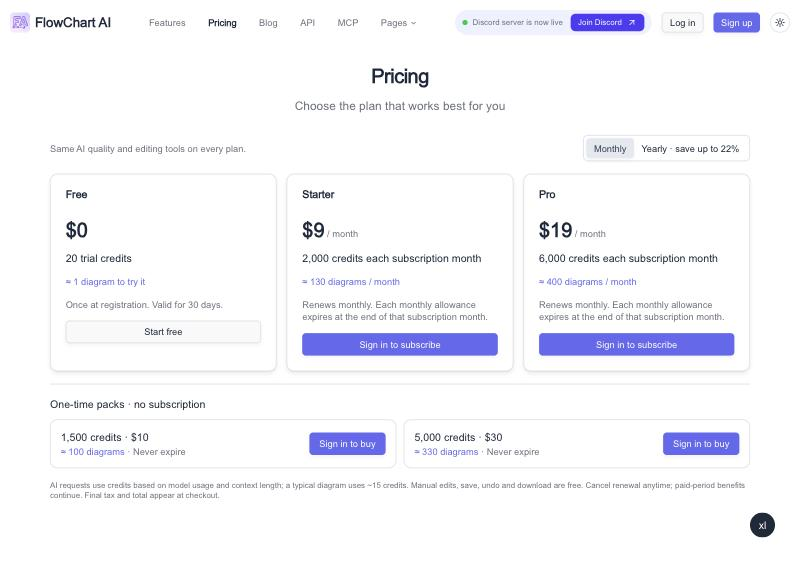
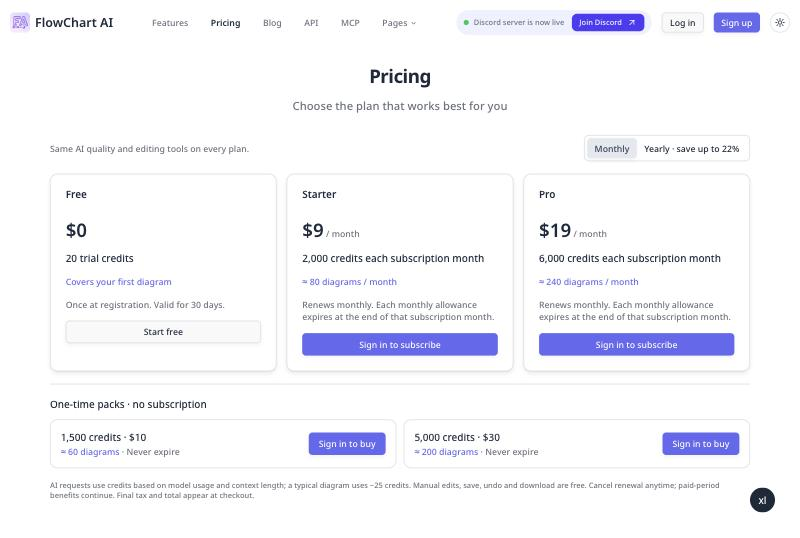
fix(paywall): calibrate diagram estimate to 25 credits from real runs
Lab runs on the production model at current rates cost 9 (simple), 23
(complex) and 23-35 (complex edits) credits; the median billed run is 23,
rounded up to 25 so the estimate errs low. $10 now reads ~60 diagrams.
The Free card says it covers the first diagram, which first-diagram
protection guarantees, instead of a per-credit estimate.

diff --git a/src/lib/billing/presentation.test.ts b/src/lib/billing/presentation.test.ts
@@ -34,13 +34,14 @@ describe('paywall default selection', () => {
 
 describe('diagram estimate', () => {
   it('uses one conservative constant and rounds down', () => {
-    expect(CREDITS_PER_TYPICAL_DIAGRAM).toBe(15);
-    expect(estimateDiagrams(1500)).toBe(100);
-    expect(estimateDiagrams(2000)).toBe(130); // 133 → 130
-    expect(estimateDiagrams(5000)).toBe(330); // 333 → 330
-    expect(estimateDiagrams(6000)).toBe(400);
-    expect(estimateDiagrams(29)).toBe(1);
-    expect(estimateDiagrams(14)).toBe(0);
+    expect(CREDITS_PER_TYPICAL_DIAGRAM).toBe(25);
+    expect(estimateDiagrams(1500)).toBe(60);
+    expect(estimateDiagrams(2000)).toBe(80);
+    expect(estimateDiagrams(5000)).toBe(200);
+    expect(estimateDiagrams(6000)).toBe(240);
+    expect(estimateDiagrams(2690)).toBe(100); // 107 → 100
+    expect(estimateDiagrams(49)).toBe(1);
+    expect(estimateDiagrams(24)).toBe(0);
     expect(estimateDiagrams(-5)).toBe(0);
   });
 
@@ -51,24 +52,24 @@ describe('diagram estimate', () => {
       );
   });
 
-  it('labels card estimates, singular for the free trial', () => {
-    expect(approxDiagrams(20)).toBe('≈ 1 diagram');
-    expect(approxDiagrams(1500)).toBe('≈ 100 diagrams');
-    expect(approxDiagrams(6000)).toBe('≈ 400 diagrams');
+  it('labels card estimates, singular for one', () => {
+    expect(approxDiagrams(25)).toBe('≈ 1 diagram');
+    expect(approxDiagrams(1500)).toBe('≈ 60 diagrams');
+    expect(approxDiagrams(6000)).toBe('≈ 240 diagrams');
   });
 
   it('puts diagrams first and the exact charge in the CTA', () => {
     expect(checkoutCta('pack_small')).toBe(
-      'Get ~100 diagrams & continue — $10 once'
+      'Get ~60 diagrams & continue — $10 once'
     );
     expect(checkoutCta('pack_large')).toBe(
-      'Get ~330 diagrams & continue — $30 once'
+      'Get ~200 diagrams & continue — $30 once'
     );
     expect(checkoutCta('starter_month')).toBe(
-      'Get ~130 diagrams/month & continue — $9/month'
+      'Get ~80 diagrams/month & continue — $9/month'
     );
     expect(checkoutCta('pro_year_202610')).toBe(
-      'Get ~400 diagrams/month & continue — $180/year'
+      'Get ~240 diagrams/month & continue — $180/year'
     );
   });
 });

diff --git a/src/lib/billing/presentation.ts b/src/lib/billing/presentation.ts
@@ -10,11 +10,14 @@ export const DEFAULT_CREDIT_VIEW: CreditView = 'once';
 export const DEFAULT_CREDIT_OFFER: OfferKey = 'pack_small';
 /**
  * Credits a typical AI diagram request uses, for the "≈ N diagrams" estimate.
- * Placeholder from observed requests (simple ≈ 9, complex ≈ 23). Calibrate it
- * against the production median credits per AI request before trusting N.
+ * Calibrated from real runs on the production model (DeepSeek V4 Pro) at the
+ * current rates (docs/billing/research/billing-v1-2026-10-14/usage-results.json):
+ * simple 9, complex 23, complex edits 23–35; median of billed runs 23, rounded
+ * up to 25 so the estimate errs low. Recheck against production
+ * (docs/paywall/phase1-2026-11/calibration-query.sql) when rates or model change.
  */
-export const CREDITS_PER_TYPICAL_DIAGRAM = 15;
-/** Rounded down, so the promise stays conservative (1,500 credits → 100). */
+export const CREDITS_PER_TYPICAL_DIAGRAM = 25;
+/** Rounded down, so the promise stays conservative (1,500 credits → 60). */
 export function estimateDiagrams(credits: number): number {
   const diagrams = Math.floor(
     Math.max(0, credits) / CREDITS_PER_TYPICAL_DIAGRAM

diff --git a/src/components/pricing/credit-pricing.tsx b/src/components/pricing/credit-pricing.tsx
@@ -106,8 +106,10 @@ export function CreditPricing({
               <p className="font-medium">
                 {SIGNUP_TRIAL_CREDITS} trial credits
               </p>
+              {/* The first diagram's charge is capped at the trial amount
+                  (first-diagram protection), so this is a policy, not an estimate. */}
               <p className="text-sm font-medium text-primary">
-                {approxDiagrams(SIGNUP_TRIAL_CREDITS)} to try it
+                Covers your first diagram
               </p>
               <p className="text-sm text-muted-foreground">
                 Once at registration. Valid for 30 days.

diff --git a/docs/paywall/phase1-2026-11/README.md b/docs/paywall/phase1-2026-11/README.md
@@ -11,7 +11,7 @@ From Oct 16 to Nov 6 2026, 342 users saw the paywall and 7 handed off to checkou
 | Area | Before | After |
 | --- | --- | --- |
 | Default | Monthly tab, Starter $9/mo | One-time tab, Small pack $10 (1,500 credits). Tabs: One-time, Monthly, Yearly |
-| Value | Credits only | "≈ N diagrams" on each card; CTA "Get ~100 diagrams & continue — $10 once" |
+| Value | Credits only | "≈ N diagrams" on each card; CTA "Get ~60 diagrams & continue — $10 once" |
 | Header (blocked request) | "Keep creating with AI" | "Add credits to continue" + why (balance 0: "You've used all your credits"; balance > 0: "This request needs more than your N remaining credits") + prompt/diagram kept, manual editing and downloads stay free |
 | Header (manual open) | Generic | Unchanged |
 | Popup blocked (mobile in-app browsers) | Small muted "Waiting for payment confirmation. Open secure checkout" link; CTA unchanged | "Checkout didn't open automatically." + full-width "Open secure checkout" button. Changing the offer clears the stale link |
@@ -20,11 +20,22 @@ From Oct 16 to Nov 6 2026, 342 users saw the paywall and 7 handed off to checkou
 
 ### /pricing (option B, owner choice 2026-11-07)
 
-/pricing had 102 visitors from Oct 16 to Nov 7, against 344 paywall viewers. They were 28% US and 91% desktop, mostly coming from the homepage before trying the app. So the page keeps subscriptions first. It now adds "≈ N diagrams" to every card (Free ≈ 1, Starter ≈ 130/mo, Pro ≈ 400/mo, packs ≈ 100 / 330) and renames "Extra credits" to "One-time packs · no subscription" with solid buttons. It also gets the same blocked-popup button as the paywall, scrolled into view. The same cards appear on the settings billing page.
+/pricing had 102 visitors from Oct 16 to Nov 7, against 344 paywall viewers. They were 28% US and 91% desktop, mostly coming from the homepage before trying the app. So the page keeps subscriptions first. It now adds "≈ N diagrams" to every card (Free covers the first diagram, Starter ≈ 80/mo, Pro ≈ 240/mo, packs ≈ 60 / 200) and renames "Extra credits" to "One-time packs · no subscription" with solid buttons. It also gets the same blocked-popup button as the paywall, scrolled into view. The same cards appear on the settings billing page.
 
-### Diagram estimate needs calibrating
+### Diagram estimate (calibrated 2026-11-07)
 
-N = credits / `CREDITS_PER_TYPICAL_DIAGRAM` (15, in `src/lib/billing/presentation.ts`), rounded down. 15 sits between the observed simple (≈ 9) and complex (≈ 23) requests. It was not derived from production data, because reading the production DB needs the owner's approval. Replace it with the real median credits per AI request. The owner chose to publish the /pricing estimates only after calibration. The production read was blocked in the agent session; `calibration-query.sql` is the read-only query to run in the Supabase SQL editor.
+N = credits / `CREDITS_PER_TYPICAL_DIAGRAM`, rounded down (tens above 100). It lives in one place, `src/lib/billing/presentation.ts`.
+
+| Real runs on the production model (DeepSeek V4 Pro), current rates | Credits |
+| --- | --- |
+| Simple diagram | 9 |
+| Complex diagram | 23 |
+| Complex edits | 23, 26, 35 |
+| Median of billed runs → constant | 23 → **25** (rounded up so the estimate errs low) |
+
+Source: `docs/billing/research/billing-v1-2026-10-14/usage-results.json`, priced with `RATES` in `policy.ts`. Result: $10 ≈ 60, $30 ≈ 200, Starter ≈ 80/mo, Pro ≈ 240/mo. The Free card says "Covers your first diagram" because first-diagram protection caps that charge at the 20 trial credits (policy, not an estimate).
+
+The production median was not read: the agent's auto-mode classifier blocks production DB reads. To recheck, run `calibration-query.sql` (read-only) in the Supabase SQL editor, especially if the model or rates change.
 
 ### Why Checkout Handoff always showed `/pricing`
 
